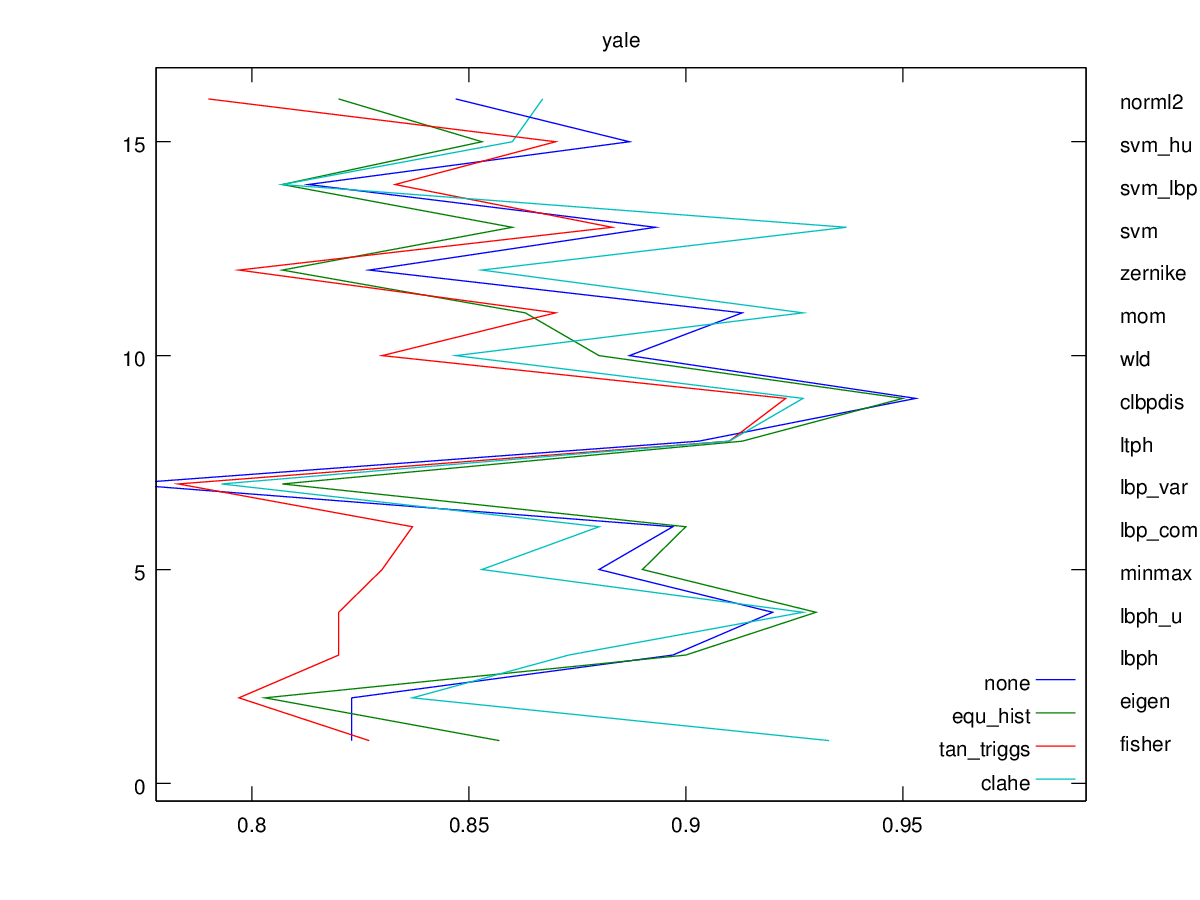
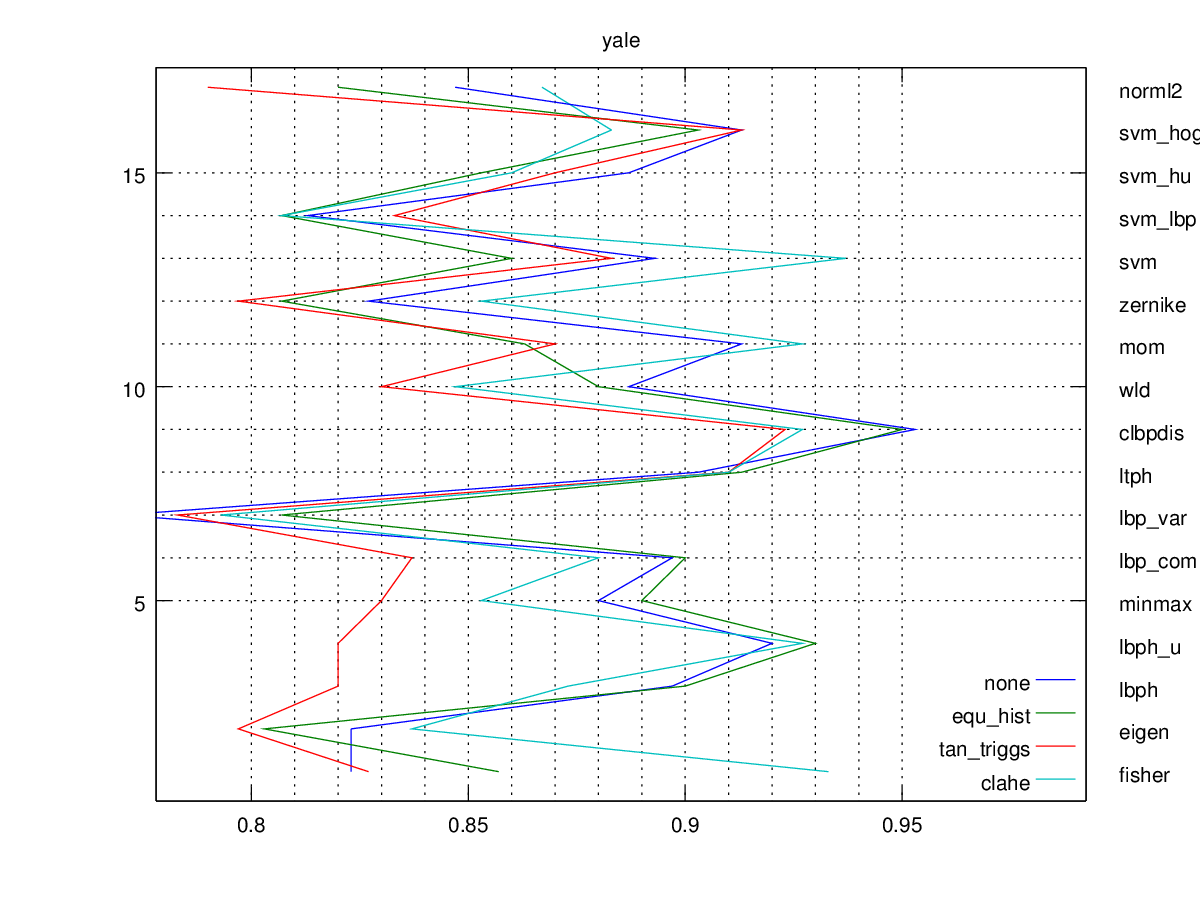
svm_hog

diff --git a/svm.cpp b/svm.cpp
@@ -12,7 +12,7 @@ struct Svm : public FaceRecognizer
 
 	CvSVM svm;
     CvSVMParams param;
-    int preprocessing; // 0 none(pixels), 1 lbph_u, 2 humoments
+    int preprocessing; // 0 none(pixels), 1 lbph_u, 2 humoments, 3 hog
 
     Svm(int pre = 0, double degree = 0.5,double gamma = 0.8,double coef0 = 0,double C = 0.99, double nu = 0.2, double p = 0.5) 
         : preprocessing(pre)
@@ -33,7 +33,39 @@ struct Svm : public FaceRecognizer
 
 private:
 
+    // square radius 1
     static uchar lbp(const Mat_<uchar> & img, int x, int y)
+    {
+        uchar v = 0;
+        uchar c = img(y,x);
+        v += (img(y-1,x  ) > c) << 0;
+        v += (img(y-1,x+1) > c) << 1;
+        v += (img(y  ,x+1) > c) << 2;
+        v += (img(y+1,x+1) > c) << 3;
+        v += (img(y+1,x  ) > c) << 4;
+        v += (img(y+1,x-1) > c) << 5;
+        v += (img(y  ,x-1) > c) << 6;
+        v += (img(y-1,x-1) > c) << 7;
+        return v;
+    }
+
+    // circle radius 2 , linear interpolated neighbours
+    static uchar lbp2(const Mat_<uchar> & img, int x, int y)
+    {
+        uchar v = 0;
+        int c = img(y,x);
+        v += (img(y-2,x  ) > c) << 0;
+        v += ((img(y-1,x+1)+img(y-1,x+2)+img(y-2,x+1)+img(y-2,x+2)) > c*4) << 1;
+        v += (img(y  ,x+2) > c) << 2;
+        v += ((img(y+1,x+1)+img(y+1,x+2)+img(y+2,x+1)+img(y+2,x+2)) > c*4) << 3;
+        v += (img(y+2,x  ) > c) << 4;
+        v += ((img(y+1,x-1)+img(y+1,x-2)+img(y+2,x-1)+img(y+2,x-2)) > c*4) << 5;
+        v += (img(y  ,x-2) > c) << 6;
+        v += ((img(y-2,x-1)+img(y-2,x-2)+img(y-1,x-1)+img(y-1,x-2)) > c*4) << 7;
+        return v;
+    }
+
+    static Mat lbp(const Mat & z)
     {
         static int uniform[256] = {
             0,1,2,3,4,58,5,6,7,58,58,58,8,58,9,10,11,58,58,58,58,58,58,58,12,58,58,58,13,58,
@@ -47,51 +79,29 @@ private:
             58,58,58,58,58,58,41,42,43,58,44,58,58,58,45,58,58,58,58,58,58,58,46,47,48,58,49,
             58,58,58,50,51,52,58,53,54,55,56,57
         };
-        uchar v = 0;
-        uchar c = img(y,x);
-        v += (img(y-1,x  ) > c) << 0;
-        v += (img(y-1,x+1) > c) << 1;
-        v += (img(y  ,x+1) > c) << 2;
-        v += (img(y+1,x+1) > c) << 3;
-        v += (img(y+1,x  ) > c) << 4;
-        v += (img(y+1,x-1) > c) << 5;
-        v += (img(y  ,x-1) > c) << 6;
-        v += (img(y-1,x-1) > c) << 7;
-        return uniform[v];
+        Mat h  = Mat::zeros(1,60*8*8,CV_32F);
+        int sw = (z.cols)/7;
+        int sh = (z.rows)/7;
+        const int m=2;
+        for ( int r=m; r<z.rows-m; r++ )
+        {
+            for ( int c=m; c<z.cols-m; c++ )
+            {
+                int i = r/sh;
+                int j = c/sw;
+                uchar v = lbp2(z,r,c);
+                v = uniform[v];
+                h.at<float>( 60*(i*8+j) + v ) += 1;
+            }
+        }        
+        normalize(h,h);
+        return h;
     }
-
     static void mom(const Mat & z, Mat & feature, int i, int j, int w, int h)
     {
-        cv::Mat roi(z, cv::Rect(i*w,j*h,w,h));
-        Moments m = moments( roi, false);
-
-        //feature.push_back(m.m00);
-        //feature.push_back(m.m01);
-        //feature.push_back(m.m02);
-        //feature.push_back(m.m03);
-        //feature.push_back(m.m10);
-        //feature.push_back(m.m11);
-        //feature.push_back(m.m12);
-        //feature.push_back(m.m30);
-
-        //feature.push_back(m.mu02);
-        //feature.push_back(m.mu03);
-        //feature.push_back(m.mu11);
-        //feature.push_back(m.mu12);
-        //feature.push_back(m.mu20);
-        //feature.push_back(m.mu21);
-        //feature.push_back(m.mu30);
-
-        //feature.push_back(m.nu02);
-        //feature.push_back(m.nu03);
-        //feature.push_back(m.nu11);
-        //feature.push_back(m.nu12);
-        //feature.push_back(m.nu20);
-        //feature.push_back(m.nu21);
-        //feature.push_back(m.nu30);
-
         double hu[7];
-        HuMoments(m,hu);
+        Mat roi(z, cv::Rect(i*w,j*h,w,h));
+        HuMoments( moments( roi, false), hu);
         feature.push_back(hu[0]);
         feature.push_back(hu[1]);
         feature.push_back(hu[2]);
@@ -100,45 +110,62 @@ private:
         feature.push_back(hu[5]);
         feature.push_back(hu[6]);
     }
+    static Mat mom(const Mat & z)
+    {
+        Mat mo;
+        int sw = (z.cols)/8;
+        int sh = (z.rows)/8;
+        for ( int i=0; i<8; i++ )
+        {
+            for ( int j=0; j<8; j++ )
+            {
+                mom(z,mo,i,j,sw,sh);
+            }
+        }        
+        mo.convertTo(mo,CV_32F);
+        normalize(mo,mo);
+        return mo;
+    }
+
+    static Mat hog(const Mat & z)
+    {
+        vector<float> descriptors;
+        vector< Point > location;
+        cv::HOGDescriptor hog( Size(8,8),Size(8,8), Size(8,8), Size(8,8), 9, 1, -1,
+                HOGDescriptor::L2Hys, 0.2, true, HOGDescriptor::DEFAULT_NLEVELS );
+
+
+        hog.compute(z, descriptors, Size( 8, 8 ), Size( 0, 0 ), location);
+        Mat hist;
+        normalize(Mat(descriptors),hist);
+
+        //int sw = 16; //(z.cols)/8;
+        //int sh = 16; //(z.rows)/8;
+        //for ( int i=0; i<z.rows-sh; i+=sh )
+        //{
+        //    CV_Assert(i+sh<z.rows);
+        //    for ( int j=0; j<z.cols-sw; j+=sw )
+        //    {
+        //        CV_Assert(j+sw<z.cols);
+        //        Mat m = z(Rect(j,i,sw,sh));
+        //        //  cerr << "hog.compute " << i << " " << j << " " << m.rows << " " << m.cols << endl;
+        //        hog.compute(m, descriptors, Size( 8, 8 ), Size( 0, 0 ), location);
+        //        hist.push_back(Mat(descriptors).clone());
+        //    }
+        //}        
+        //normalize(hist,hist);
+        return hist;
+    }
+
+
     Mat preproc(const Mat & z) const
     {
+
         switch ( preprocessing )
         { 
-        case 1:
-        {
-            Mat h  = Mat::zeros(1,60*8*8,CV_32F);
-            int sw = (z.cols)/7;
-            int sh = (z.rows)/7;
-            for ( int r=1; r<z.rows-1; r++ )
-            {
-                for ( int c=1; c<z.cols-1; c++ )
-                {
-                    int i = r/sh;
-                    int j = c/sw;
-                    uchar v = lbp(z,r,c);
-                    h.at<float>( 60*(i*8+j) + v ) += 1;
-                }
-            }        
-            normalize(h,h);
-            return h;
-        }
-
-        case 2:
-        {
-            Mat mo;
-            int sw = (z.cols)/8;
-            int sh = (z.rows)/8;
-            for ( int i=0; i<8; i++ )
-            {
-                for ( int j=0; j<8; j++ )
-                {
-                    mom(z,mo,i,j,sw,sh);
-                }
-            }        
-            mo.convertTo(mo,CV_32F);
-            normalize(mo,mo);
-            return mo;
-        }
+            case 1: return lbp(z);
+            case 2: return mom(z);
+            case 3: return hog(z);
         }
         Mat m = z.reshape(1,1);
         m.convertTo(m,CV_32F,1.0/255);

diff --git a/stuff/rs2.m b/stuff/rs2.m
@@ -1,0 +1,47 @@
+yale_0 = [0.823  0.823  0.897  0.920  0.880  0.897  0.770  0.903  0.953  0.887  0.913  0.827  0.893 0.813 0.887 0.913 0.847];
+yale_1 = [0.857  0.803  0.900  0.930  0.890  0.900  0.807  0.913  0.950  0.880  0.863  0.807  0.860 0.807 0.853 0.903 0.820];
+yale_2 = [0.827  0.797  0.820  0.820  0.830  0.837  0.783  0.910  0.923  0.830  0.870  0.797  0.883 0.833 0.870 0.913 0.790];
+yale_3 = [0.933  0.837  0.873  0.927  0.853  0.880  0.793  0.910  0.927  0.847  0.927  0.853  0.937 0.807 0.860 0.883 0.867]; 
+
+att_0 = [0.946  0.973  0.985  0.950  0.953  0.980  0.797  0.882  0.907  0.990  0.925  0.971  0.979 0.985 0.956 0.966 0.973];
+att_1 = [0.933  0.960  0.983  0.951  0.954  0.980  0.792  0.863  0.905  0.989  0.916  0.950  0.963 0.985 0.849 0.964 0.959];
+att_2 = [0.719  0.720  0.978  0.941  0.919  0.980  0.643  0.929  0.711  0.975  0.760  0.660  0.711 0.974 0.828 0.960 0.719];
+att_3 = [0.906  0.875  0.970  0.924  0.935  0.955  0.667  0.895  0.864  0.963  0.850  0.859  0.912 0.969 0.850 0.935 0.873];
+
+lfw_0 = [0.686  0.461  0.755  0.594  0.705  0.636  0.357  0.397  0.656  0.634  0.494  0.451  0.720 0.843 0.512 0.777 0.461];
+lfw_1 = [0.715  0.564  0.765  0.600  0.695  0.612  0.349  0.491  0.664  0.720  0.566  0.576  0.724 0.841 0.379 0.781 0.564];
+lfw_2 = [0.514  0.449  0.694  0.582  0.568  0.564  0.293  0.480  0.548  0.638  0.368  0.397  0.516 0.773 0.462 0.769 0.447];
+lfw_3 = [0.707  0.687  0.749  0.580  0.697  0.657  0.271  0.506  0.652  0.773  0.588  0.672  0.719 0.825 0.554 0.747 0.687];
+
+
+labels = { "fisher" "eigen" "lbph" "lbph_u" "minmax" "lbp_com" "lbp_var" "ltph" "clbpdis" "wld" "mom" "zernike" "svm" "svm_lbp" "svm_hu" "svm_hog" "norml2"};
+idx = [1,2,3,4,5,6,7,8,9,10,11,12,13,14,15,16,17];
+#preproc = { "none", "equ_hist", "tan_triggs", "clahe"};
+
+figure;
+plot(lfw_0,idx,lfw_1,idx,lfw_2,idx,lfw_3,idx);
+title("lfw");
+for i = [1:17] text(1,i, char(labels(i))); end
+legend("none", "equ_hist", "tan_triggs", "clahe",'Location','SouthEast');
+#grid on
+grid minor
+
+figure;
+#grid on
+plot(att_0,idx,att_1,idx,att_2,idx,att_3,idx);
+title("att");
+for i = [1:17] text(1,i, char(labels(i))); end
+legend("none", "equ_hist", "tan_triggs", "clahe",'Location','SouthWest');
+#grid on
+grid minor
+
+figure;
+#grid on
+plot(yale_0,idx,yale_1,idx,yale_2,idx,yale_3,idx);
+title("yale");
+for i = [1:17] text(1,i, char(labels(i))); end
+legend("none", "equ_hist", "tan_triggs", "clahe",'Location','SouthEast');
+#grid on
+grid minor
+
+

diff --git a/main.cpp b/main.cpp
@@ -71,6 +71,7 @@ const char *rec_names[] = {
     "svm",
     "svm_lbp",
     "svm_hu",
+    "svm_hog",
     "norml2"
 };
 
@@ -118,6 +119,7 @@ Ptr<FaceRecognizer> runtest( int rec, const vector<Mat>& images, const vector<in
         case 13: model = createSvmFaceRecognizer(0); break;
         case 14: model = createSvmFaceRecognizer(1); break;
         case 15: model = createSvmFaceRecognizer(2); break;
+        case 16: model = createSvmFaceRecognizer(3); break;
         default: model = createLinearFaceRecognizer(NORM_L2); break;
     }
     //
@@ -159,6 +161,7 @@ Ptr<FaceRecognizer> runtest( int rec, const vector<Mat>& images, const vector<in
             }
         }
 
+        //  cerr << rec_names[rec] << " " << f << endl;
         model->train(trainImages, trainLabels);
 
         int64 t2 = cv::getTickCount();
@@ -173,7 +176,7 @@ Ptr<FaceRecognizer> runtest( int rec, const vector<Mat>& images, const vector<in
             // test positive img:
             double dist = DBL_MAX;
             int predicted = -1;
-            //cerr << label << " ";
+            // cerr << label << " ";
             model->predict(testImages[i],predicted,dist);
             if ( verbose && (predicted>=0 && size_t(predicted)<persons.size()) ) /// TODO: what if else
                 confusion.at<int>(label,predicted) += 1;
@@ -276,8 +279,11 @@ Mat tan_triggs_preprocessing(InputArray src,
 
 extern void svm_ga(const vector<Mat>& images, const vector<int>& labels, float err);
 
+
 int main(int argc, const char *argv[]) 
 {
+    //return btest();
+
     vector<Mat> images;
     vector<int> labels;
     vector<string> vec;
@@ -289,7 +295,7 @@ int main(int argc, const char *argv[])
     size_t fold = 5;
     if ( argc>2 ) fold=atoi(argv[2]);
 
-    int rec = 13;
+    int rec = 16;
     if ( argc>3 ) rec=atoi(argv[3]);
 
     bool verbose = true;
@@ -297,7 +303,7 @@ int main(int argc, const char *argv[])
 
     bool save = (fold==1);
 
-    int preproc = 1; // 0-none 1-eqhist 2-tantriggs 2-clahe
+    int preproc = 0; // 0-none 1-eqhist 2-tantriggs 3-clahe
     if ( argc>5 ) preproc=atoi(argv[5]);
 
     // read face db

diff --git a/Zernike.cpp b/Zernike.cpp
@@ -218,7 +218,7 @@ public:
     //
     void compute_patch(const Mat & patch, Mat & _features) const
     {
-        for (int i=0; i<zerm.size(); i++) 
+        for (size_t i=0; i<zerm.size(); i++) 
         {
             Mat c;
             multiply(patch, zerm[i], c); // per element
@@ -416,18 +416,18 @@ void zern_ga(const vector<Mat>& images, const vector<int>& labels, float err)
                     if ( (feat[i].a==tests[j].a) && (feat[i].p==tests[j].p) && (feat[i].q==tests[j].q) )
                     {
                         if (tests[j].score<d)
-                            tests[j].score=d;
+                            tests[j].score=float(d);
                         found = true;
                         break;
                     }
                 }
                 if ( ! found )
                 {
-                    feat[i].score = d;
+                    feat[i].score = float(d);
                     tests.push_back(feat[i]);
                 }
             }
-            e = 1+ d * 4;
+            e = 1.0f + float(d) * 4;
         }
 
         if ( tests.size() > 7 )

diff --git a/readme.md b/readme.md
@@ -18,9 +18,9 @@
 results vary pretty much with preprocessing:
 
 <p align="center">
-  <img src="https://github.com/berak/uniform-lbp/raw/master/img/res_att.png" width=440 height=300>
-  <img src="https://github.com/berak/uniform-lbp/raw/master/img/res_yale.png" width=440 height=300>
-  <img src="https://github.com/berak/uniform-lbp/raw/master/img/res_lfw.png" width=440 height=300>
+  <img src="https://github.com/berak/uniform-lbp/raw/master/img/res_att.png" width=520 height=340>
+  <img src="https://github.com/berak/uniform-lbp/raw/master/img/res_yale.png" width=520 height=340>
+  <img src="https://github.com/berak/uniform-lbp/raw/master/img/res_lfw.png" width=520 height=340>
 </p>
 
 
